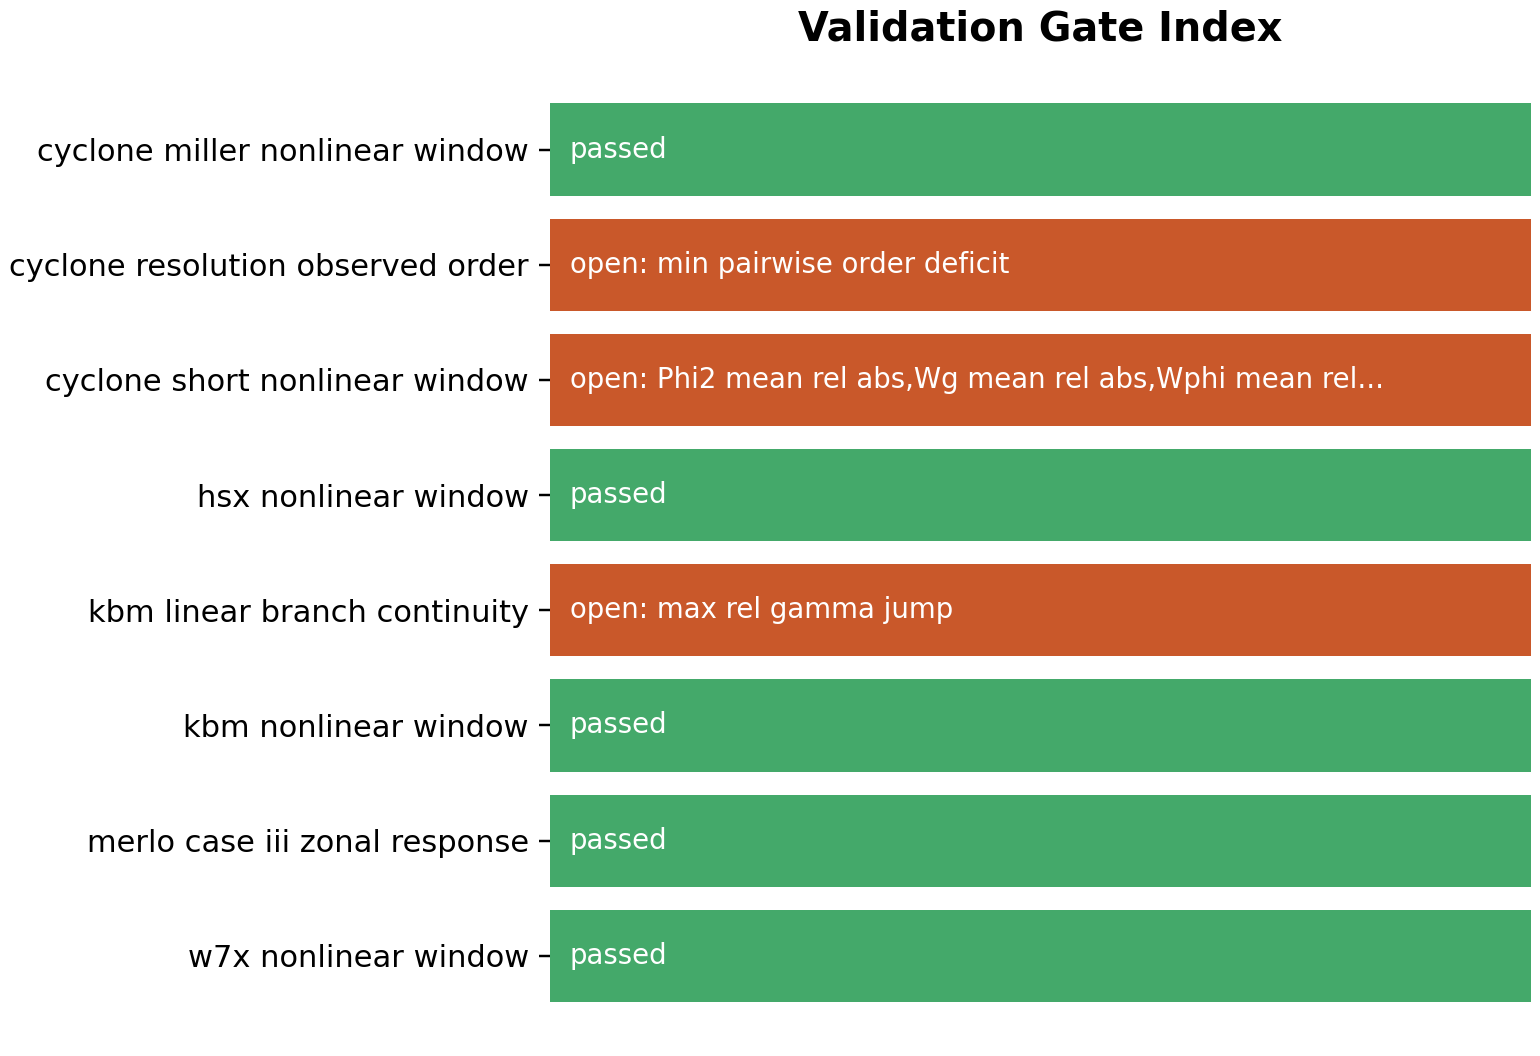
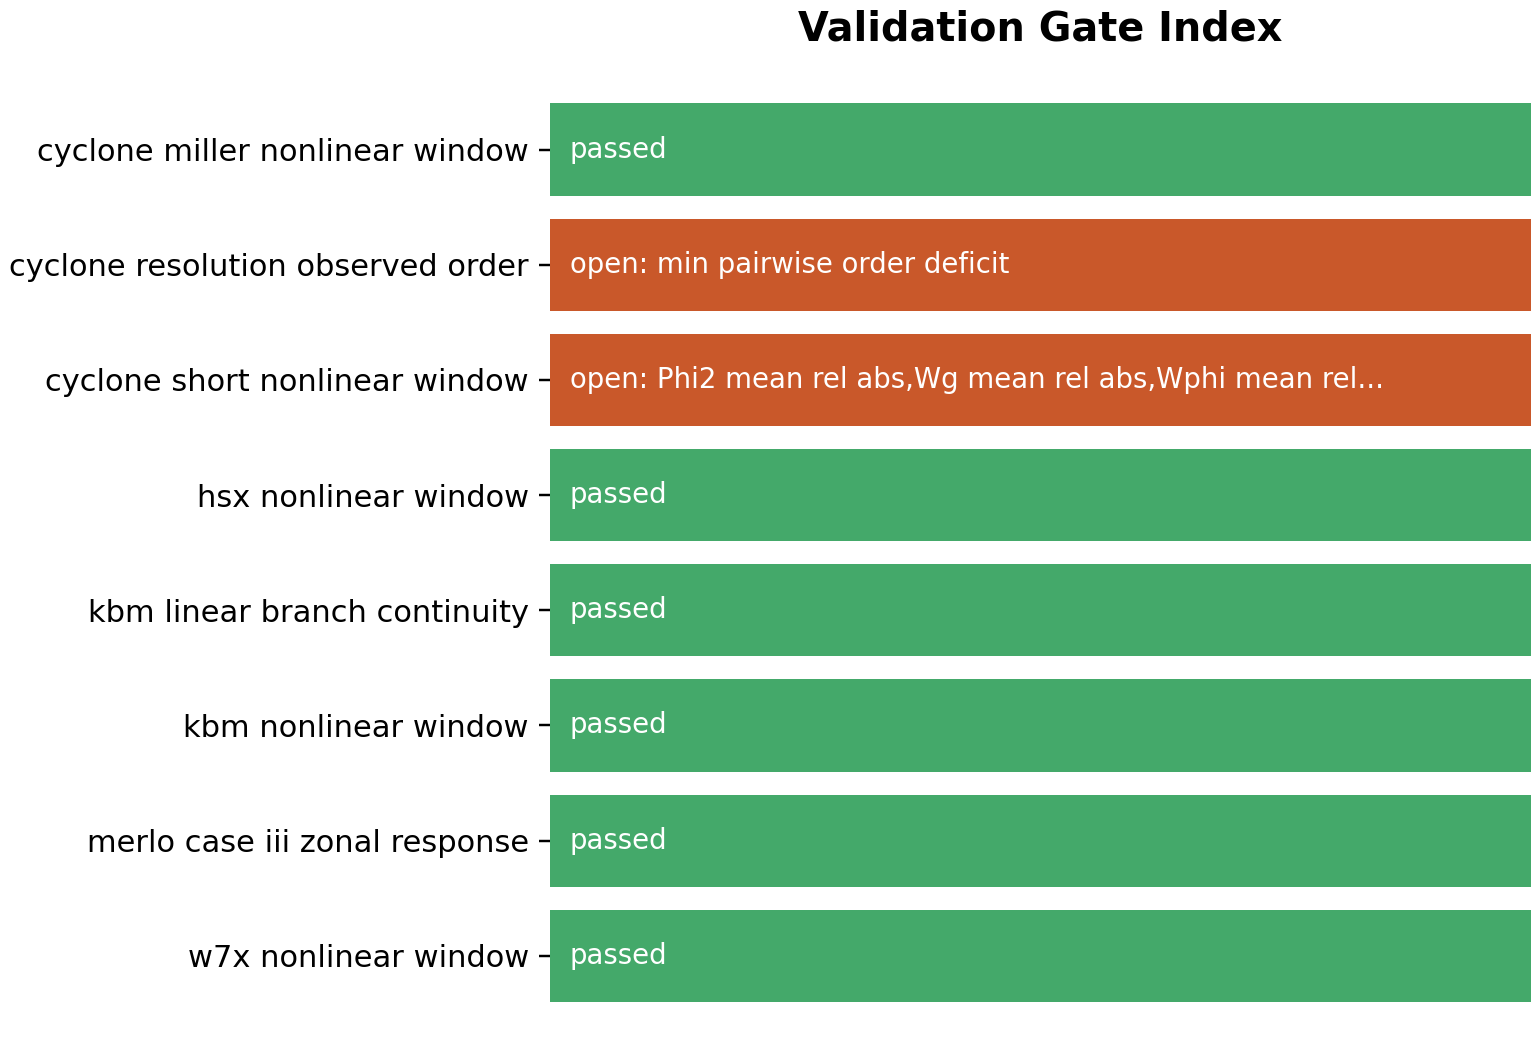
Close KBM branch continuity gate

Changed region(s): [[0.3429, 0.5312, 0.9974, 0.625]]

diff --git a/docs/manuscript_figures.rst b/docs/manuscript_figures.rst
@@ -29,7 +29,7 @@ Core Validation Figures
    * - Eigenfunction validation panel
      - ``tools/plot_eigenfunction_overlap_summary.py`` and ``tools/plot_eigenfunction_reference_overlay.py``
      - Open
-     - first shipped overlap artifact is ``docs/_static/kbm_eigenfunction_overlap_summary.png``; raw GX bundles now exist for KBM and W7-X under ``docs/_static/reference_modes/`` and the first bounded-cost raw overlay is ``docs/_static/kbm_eigenfunction_reference_overlay_ky0p3000.png``. The reproducible generator for that artifact is now ``tools/generate_kbm_reference_overlay.py`` and writes a JSON gate report with ``overlap >= 0.95`` and ``relative L^2 <= 0.25`` requirements. ``tools/compare_gx_kbm.py --branch-summary-json`` writes branch-continuity gate metadata for selected KBM scans, and ``tools/generate_kbm_branch_gate_summary.py`` refreshes the no-rerun tracked artifact ``docs/_static/kbm_branch_gate_summary.json`` from ``docs/_static/kbm_gx_candidates.csv``. The current branch summary is open because the largest adjacent growth-rate jump is about ``0.60`` against the strict ``0.50`` gate, while the adjacent frequency-jump and successive-overlap gates pass. The raw KBM overlay remains an open validation figure because the bounded exact-contract extraction still shows only about ``0.63`` overlap and ``0.79`` relative ``L^2`` mismatch.
+     - first shipped overlap artifact is ``docs/_static/kbm_eigenfunction_overlap_summary.png``; raw GX bundles now exist for KBM and W7-X under ``docs/_static/reference_modes/`` and the first bounded-cost raw overlay is ``docs/_static/kbm_eigenfunction_reference_overlay_ky0p3000.png``. The reproducible generator for that artifact is now ``tools/generate_kbm_reference_overlay.py`` and writes a JSON gate report with ``overlap >= 0.95`` and ``relative L^2 <= 0.25`` requirements. ``tools/compare_gx_kbm.py --branch-summary-json`` writes branch-continuity gate metadata for selected KBM scans, and ``tools/generate_kbm_branch_gate_summary.py`` refreshes the no-rerun tracked artifact ``docs/_static/kbm_branch_gate_summary.json`` from ``docs/_static/kbm_gx_candidates.csv``. The current continuity-first branch summary passes the strict adjacent growth/frequency jump and successive-overlap gates; the raw KBM overlay remains an open validation figure because the bounded exact-contract extraction still shows only about ``0.63`` overlap and ``0.79`` relative ``L^2`` mismatch.
    * - Nonlinear transport panel
      - ``tools/make_gx_summary_panel.py`` / ``tools/make_gx_publication_panel.py``
      - Open

diff --git a/plan.md b/plan.md
@@ -190,16 +190,17 @@ The active pre-merge sequence is:
      `gamma`/`omega` jump gates and successive eigenfunction-overlap gates.
    - The tracked KBM selected-branch table now also has a no-rerun refresh
      script, `tools/generate_kbm_branch_gate_summary.py`, which writes
-     `docs/_static/kbm_branch_gate_summary.json`. The current summary keeps
-     this lane open because the largest adjacent growth-rate jump is about
-     `0.60` against the strict `0.50` gate, while the adjacent frequency and
-     successive-overlap gates pass.
+     `docs/_static/kbm_branch_gate_summary.json`. The selected rows now use a
+     continuity-first branch (`project_late` at `ky=0.2` instead of the
+     pointwise max-growth window), and the current summary passes with
+     `max_rel_gamma_jump ~= 0.388`, `max_rel_omega_jump ~= 0.320`, and no
+     successive-overlap deficit.
    - `tools/make_validation_gate_index.py` now scans tracked JSON metadata and
      writes `docs/_static/validation_gate_index.json/csv/png`, giving the
      manuscript/docs one compact audit view of currently materialized
      pass/open gate reports. The current index contains Merlo zonal response
-     as passed, and the Cyclone resolution pilot plus KBM branch continuity as
-     open.
+     and KBM branch continuity as passed; the Cyclone resolution pilot and
+     short Cyclone nonlinear diagnostic remain open.
 
 3. **Close the next physics gates in this order.**
    - W7-X zonal-response artifact using VMEC-backed geometry and the same

diff --git a/docs/verification_matrix.rst b/docs/verification_matrix.rst
@@ -129,10 +129,10 @@ branch-continuity gates for adjacent ``gamma``/``omega`` jumps and successive
 eigenfunction overlap when overlap data are available. The tracked KBM
 candidate table now has a no-rerun summary path through
 ``tools/generate_kbm_branch_gate_summary.py`` and
-``docs/_static/kbm_branch_gate_summary.json``. That summary currently marks
-the branch-continuity lane open: the largest adjacent growth-rate jump is about
-``0.60`` against the strict ``0.50`` threshold, while the corresponding
-frequency-jump and successive-overlap checks pass.
+``docs/_static/kbm_branch_gate_summary.json``. That summary now uses the
+continuity-first selected branch and passes the strict checks:
+``max_rel_gamma_jump ~= 0.388``, ``max_rel_omega_jump ~= 0.320``, and no
+successive-overlap deficit.
 
 Observed-order convergence tables should also gate both the asymptotic finest
 refinement and the full set of pairwise refinement orders. The generic
